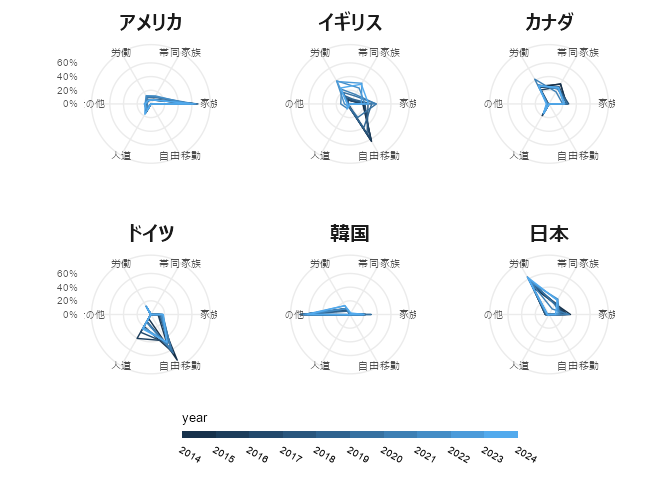
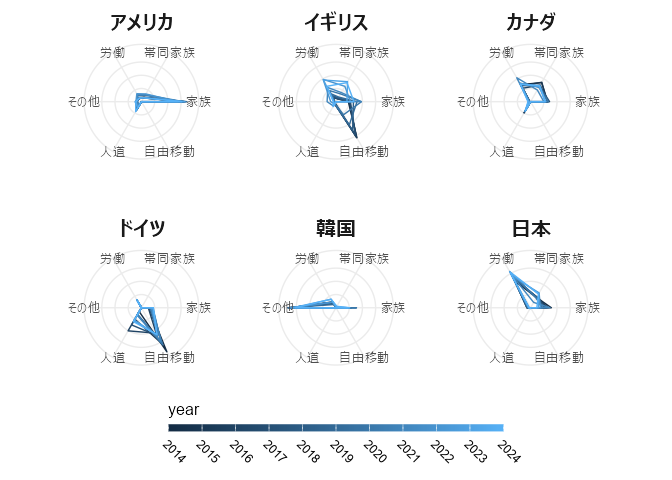
Tweak

diff --git a/README.md b/README.md
@@ -79,12 +79,12 @@ d_summarised <- d |>
     year = TIME_PERIOD,
     type = fct_recode(
       `Entry category`,
-      "その他" = "Other",
       "自由移動" = "Free movements",
       "労働" = "Work",
-      "人道" = "Humanitarian",
-      "家族" = "Family",
       "帯同家族" = "Accompanying family of workers",
+      "家族" = "Family",
+      "人道" = "Humanitarian",
+      "その他" = "Other",
     )
   ) |>
   summarise(n = sum(OBS_VALUE, na.rm = TRUE), .groups = "drop")
@@ -150,18 +150,20 @@ d_pct <- d_summarised |>
 
 ggplot(d_pct, aes(type, `%`, colour = year, group = factor(year))) +
   geom_polygon(fill = NA) +
-  see::coord_radar() +
+  see::coord_radar(clip = "off") +
   facet_wrap(vars(area)) +
   scale_y_continuous(labels = scales::label_percent()) +
-  scale_colour_binned(breaks = 2014:2025) +
+  scale_colour_continuous(breaks = 2013:2024) +
   theme_minimal() +
   theme(
-    text = element_text(size = 10),
+    text = element_text(size = 12),
     axis.title = element_blank(),
     strip.text = element_text(size = 15, face = "bold"),
+    axis.text.x = element_text(margin = margin(t = 4, unit = "pt")),
+    axis.text.y = element_blank(),
     legend.position = "bottom",
     legend.title.position = "top",
-    legend.text = element_text(angle = -30, hjust = 0),
+    legend.text = element_text(size = 9, angle = -45, hjust = 0),
     legend.key.width = unit(0.1, "npc"),
     legend.key.height = unit(0.015, "npc"),
     panel.spacing = unit(0.1, "npc"),
